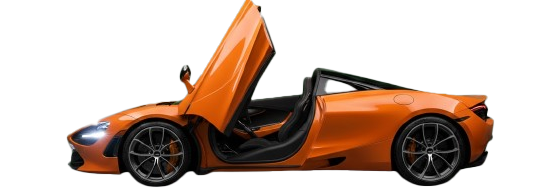
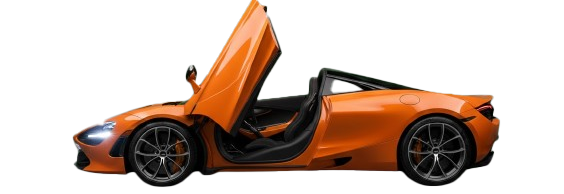
done

diff --git a/index.html b/index.html
@@ -7,6 +7,7 @@
     <title>Document</title>
     <link rel="stylesheet" href="style.css">
     <link rel="stylesheet" href="https://cdnjs.cloudflare.com/ajax/libs/font-awesome/7.0.1/css/all.min.css">
+    <link rel="shortcut icon" href="./assets/favicon.png" type="image/x-icon">
 </head>
 
 <body class="dark-mode">
@@ -84,7 +85,7 @@
                 <div class="car mobilecar">
                     <div class="glow"></div>
                     <img src="./assets/rollsroyce/mobilelightsoff.png" alt="" onmouseover="doorsOpen(this)"
-                        onmouseout="doorsClose(this)" onclick="carStart(this)">
+                        onmouseout="doorsClose(this)" onclick="carStartMob(this)">
                 </div>
             </div>
         </div>
@@ -105,8 +106,8 @@
                 </div>
                 <div class="car mobilecar">
                     <div class="glow"></div>
-                    <img src="./assets/ferrari/mobilelightsoff.png" alt="" onmouseover="doorsOpen(this)"
-                        onmouseout="doorsClose(this)" onclick="carStart(this)">
+                    <img src="./assets/ferrari/mobilelightsoff.png" alt=""  onmouseover="doorsOpen(this)"
+                        onmouseout="doorsClose(this)" onclick="carStartMob(this)">
                 </div>
             </div>
         </div>
@@ -127,15 +128,15 @@
                 <div class="car mobilecar">
                     <div class="glow"></div>
                     <img src="./assets/Mclaren/mobilelightsoff.png" alt="" onmouseover="doorsOpen(this)"
-                        onmouseout="doorsClose(this)" onclick="carStart(this)">
+                        onmouseout="doorsClose(this)" onclick="carStartMob(this)">
                 </div>
             </div>
         </div>
         <div class="hero hero4" onmouseover="carEnter(this)" >
             <div class="header">
-                <div class="txt" style="-webkit-text-stroke: 1px rgb(66, 66, 66);">
-                    <h1 style="font-family: 'Michroma',sans-serif;">Tesla</h1>
-                    <p style="font-family:'Quantico',sans-serif;">S Plaid</p>
+                <div class="txt" style="-webkit-text-stroke: .5px rgb(107, 107, 107); margin-left: 50px;">
+                    <h1 style="font-family: 'Tektur',sans-serif;">Tesla</h1>
+                    <p style="font-family:'Tektur',sans-serif;">S Plaid</p>
                 </div>
                 <div class="hero-logo tesla"></div>
             </div>
@@ -148,13 +149,43 @@
                 <div class="car mobilecar">
                     <div class="glow"></div>
                     <img src="./assets/tesla/mobilelightsoff.png" alt="" onmouseover="doorsOpen(this)"
-                        onmouseout="doorsClose(this)" onclick="carStart(this)">
+                        onmouseout="doorsClose(this)" onclick="carStartMob(this)">
                 </div>
             </div>
         </div>
-        <div class="hero hero5"></div>
-        <div class="hero hero6"></div>
+        <!-- <div class="hero hero5"></div>
+        <div class="hero hero6"></div> -->
     </main>
+        <footer class="footer">
+  <div class="footer-container">
+    <div class="footer-about">
+            <div class="logo">
+                <h1>luxurs.</h1>
+            </div>
+    </div>
+
+    <ul class="footer-links">
+      <h4>Quick Links</h4>
+      <li><a href="#">Home</a></li>
+      <li><a href="#">About</a></li>
+      <li><a href="#">Shop</a></li>
+      <li><a href="#">Contact</a></li>
+    </ul>
+
+    <ul class="footer-links">
+      <h4>Support</h4>
+      <li><a href="#">Help Center</a></li>
+      <li><a href="#">Reviews</a></li>
+      <li><a href="#">Shipping</a></li>
+      <li><a href="#">Privacy Policy</a></li>
+    </ul>
+  </div>
+
+  <div class="footer-bottom">
+    <p>Made with ❤ by <span>Ahmed</span></p>
+    <p>© 2025 Ahmed. All rights reserved.</p>
+  </div>
+</footer>
 
 
 

diff --git a/style.css b/style.css
@@ -1,5 +1,4 @@
-@import url('https://fonts.googleapis.com/css2?family=Cinzel+Decorative:wght@400;700;900&family=DM+Serif+Display:ital@0;1&family=McLaren&family=Michroma&family=Orbitron:wght@400..900&family=Playfair+Display:ital,wght@0,400..900;1,400..900&family=Quantico:ital,wght@0,400;0,700;1,400;1,700&family=Rajdhani:wght@300;400;500;600;700&display=swap');
-
+@import url('https://fonts.googleapis.com/css2?family=Cinzel+Decorative:wght@400;700;900&family=DM+Serif+Display:ital@0;1&family=McLaren&family=Michroma&family=Montserrat:ital,wght@0,100..900;1,100..900&family=Orbitron:wght@400..900&family=Playfair+Display:ital,wght@0,400..900;1,400..900&family=Poppins:ital,wght@0,100;0,200;0,300;0,400;0,500;0,600;0,700;0,800;0,900;1,100;1,200;1,300;1,400;1,500;1,600;1,700;1,800;1,900&family=Quantico:ital,wght@0,400;0,700;1,400;1,700&family=Rajdhani:wght@300;400;500;600;700&family=Tektur:wght@400..900&display=swap');
 * {
     margin: 0;
     padding: 0;
@@ -105,7 +104,7 @@ nav.scrolled {
 }
 
 .logo h1 {
-    font-family: "Playfair display", sans-serif;
+   font-family: "Montserrat", sans-serif;
     color: var(--accent);
     text-transform: uppercase;
     font-size: 1.9rem;
@@ -366,6 +365,16 @@ main {
     background-size: contain;
     margin-top: 9%;
 }
+.Mclaren {
+    background: url(./assets/Mclaren/logo.png);
+    width: 100px;
+    height: 100px;
+    background-size: contain;
+    margin-top: 8%;
+    padding-right: 4%;
+    background-repeat: no-repeat;
+}
+
 
 .txt p {
     font-size: 1.2rem;
@@ -451,6 +460,84 @@ main {
         opacity: 0.6;
     }
 }
+.footer {
+    margin-top: 8px;
+  background:transparent;
+  color: var(--accent);
+  padding: 50px 10%;
+  display: flex;
+  flex-direction: column;
+  align-items: center;
+  justify-content: center;
+  position: relative;
+  bottom: 0;
+  width: 100%;
+  font-family: "Poppins", serif;
+}
+
+.footer-container {
+  width: 100%;
+  display: flex;
+  justify-content: space-between;
+  flex-wrap: wrap;
+  gap: 40px;
+  margin-bottom: 30px;
+}
+
+.footer-about {
+  flex: 1;
+  min-width: 250px;
+}
+
+.footer-about h3 {
+  margin-bottom: 15px;
+  font-size: 1.5rem;
+}
+
+.footer-about p {
+  font-size: 0.95rem;
+  line-height: 1.5;
+}
+
+.footer-links {
+  list-style: none;
+  flex: 1;
+  min-width: 200px;
+}
+
+.footer-links h4 {
+  font-size: 1.1rem;
+  margin-bottom: 15px;
+}
+
+.footer-links li {
+  margin-bottom: 10px;
+}
+
+.footer-links a {
+  color: var(--accent);
+  text-decoration: none;
+  transition: 0.3s;
+}
+
+.footer-links a:hover {
+  color: var(--highlight);
+  padding-left: 4px;
+}
+
+.footer-bottom {
+  text-align: center;
+  border-top: 1px solid var(--accent);
+  padding-top: 20px;
+  width: 100%;
+  font-size: 0.9rem;
+}
+
+.footer-bottom span {
+  font-weight: bold;
+}
+
+
 
 
 @media (max-width:992px) {
@@ -505,6 +592,24 @@ main {
     .mobilecar {
         display: block;
     }
+      .footer{
+    margin-top: 0px;
+  }
+  
+  .footer-container {
+    flex-direction: column;
+    align-items: center;
+    text-align: center;
+  }
+  
+  .footer-links,
+  .footer-about {
+    min-width: unset;
+  }
+  
+  .footer-links h4 {
+    margin-top: 20px;
+  }
 }
 
 @media (max-width:600px) {

diff --git a/app.js b/app.js
@@ -48,6 +48,15 @@ function carStart(img) {
   let folderName = img.src.split('/')
 folderName = folderName[folderName.length - 2]
  img.src = `./assets/${folderName}/lightson.png`
+  carSound.volume = 0.7
+  carSound.play()
+
+}
+
+
+function carStartMob(img) {
+  let folderName = img.src.split('/')
+folderName = folderName[folderName.length - 2]
   img.src = `./assets/${folderName}/mobilelightson.png`
   carSound.volume = 0.7
   carSound.play()
